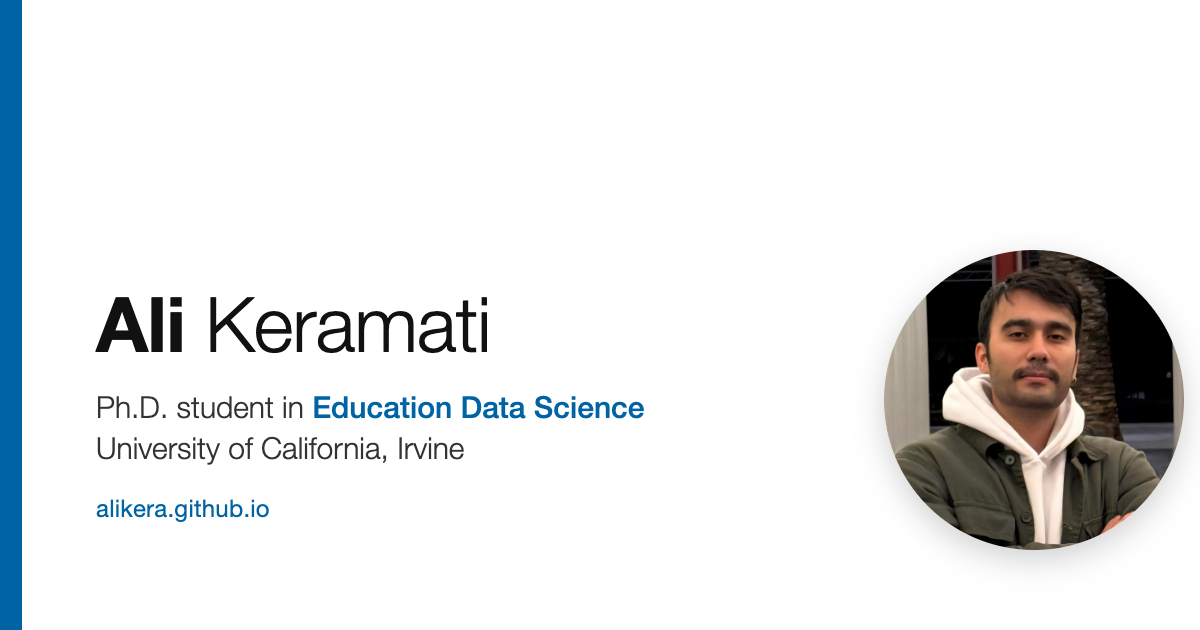
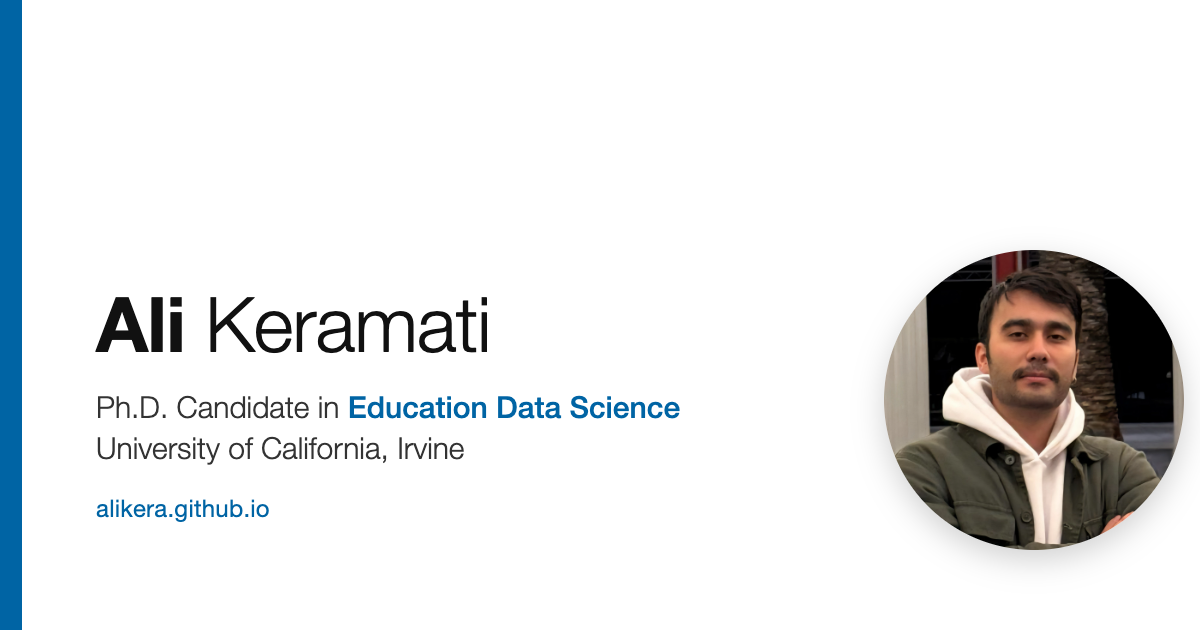
Use Ph.D. Candidate in Education Data Science; drop School of Education mentions

Changed region(s): [[0.1233, 0.6333, 0.5858, 0.6635]]

diff --git a/_pages/about.md b/_pages/about.md
@@ -2,14 +2,13 @@
 layout: about
 title: about
 permalink: /
-subtitle: Ph.D. Student in Education, <a href="https://education.uci.edu/">University of California, Irvine</a>
+subtitle: Ph.D. Candidate in Education Data Science, <a href="https://uci.edu/">University of California, Irvine</a>
 
 profile:
   align: right
   image: prof_pic.jpg
   image_circular: false # crops the image to make it circular
   more_info: >
-    <p>School of Education</p>
     <p>UC Irvine</p>
     <p>akerama1 [at] uci.edu</p>
 
@@ -27,10 +26,10 @@ latest_posts:
   limit: 3 # leave blank to include all the blog posts
 ---
 
-I am a Ph.D. student in Education at the University of California, Irvine, and a graduate student researcher in the [Digital Learning Lab](https://www.digitallearninglab.org/), directed by [Mark Warschauer](https://markwarschauer.com/). I hold an M.A. in Education from UC Irvine and a B.Sc. in Computer Engineering, with a minor in Educational Sciences, from the University of Tehran.
+I am a Ph.D. candidate in Education Data Science at the University of California, Irvine, and a graduate student researcher in the [Digital Learning Lab](https://www.digitallearninglab.org/), directed by [Mark Warschauer](https://markwarschauer.com/). I hold an M.A. in Education from UC Irvine and a B.Sc. in Computer Engineering, with a minor in Educational Sciences, from the University of Tehran.
 
 My research combines **natural language processing** and **multi-agent AI** with educational research to study how digital learning systems can support teaching and learning, focusing on **reliable assessment**, **learner simulation**, and the **evaluation of AI agents**. I designed [MADRAG](/publications/#keramati2026madrag), a training-free essay scorer in which Advocate and Skeptic agents debate an essay and a Judge agent calibrates its score against retrieved, rubric-aligned examples. I study whether token-level confidence reveals reasoning quality in multi-agent debate ([ACL 2026 SRW](/publications/#keramati2026confidentliar), [GEM 2026](/publications/#keramati2026earlytoken)) and how well large language models simulate students' programming errors ([EDM 2026](/publications/#keramati2026javaerrors)).
 
-In summer 2026 I was an applied scientist intern at **Microsoft** Copilot Studio, where I co-developed [ThinkingBox-Bench](/projects/thinkingbox/), a benchmark of 507 business workflows that tests whether tool-using agents succeed reliably across repeated attempts. At UC Irvine I work on [PapyrusAI](/projects/papyrusai/), the lab's AI writing coach, within the IES-funded [WRITE AI Center](https://writeai.center/), and I have served as a teaching and learning assistant in the School of Education.
+In summer 2026 I was an applied scientist intern at **Microsoft** Copilot Studio, where I co-developed [ThinkingBox-Bench](/projects/thinkingbox/), a benchmark of 507 business workflows that tests whether tool-using agents succeed reliably across repeated attempts. At UC Irvine I work on [PapyrusAI](/projects/papyrusai/), the lab's AI writing coach, within the IES-funded [WRITE AI Center](https://writeai.center/), and I have served as a teaching and learning assistant.
 
 Outside research, I love the arts: painting is my creative outlet, music keeps me focused, and I have explored acting and film direction with [Tazeh Theater](https://www.instagram.com/tazeh_theater/?hl=en). I also played soccer for [Esteghlal F.C. U17](https://www.transfermarkt.com/esteghlal-fc-u17/startseite/verein/88915) and still join friends on the field whenever I can.

diff --git a/_pages/education.md b/_pages/education.md
@@ -8,9 +8,8 @@ nav: false # reached through the "more" menu
 
 <div class="row mb-4">
   <div class="col-sm-8">
-    <h3 style="font-size:1.35rem; margin-bottom:.25rem">Ph.D. in Education</h3>
-    <div><a href="https://education.uci.edu/">School of Education</a>, University of California, Irvine · 2025 – present</div>
-    <div style="font-size:.9rem; color: var(--global-text-color-light)">Specialization: Teaching, Learning, and Educational Improvement · research focus: educational data science and AI in education</div>
+    <h3 style="font-size:1.35rem; margin-bottom:.25rem">Ph.D. in Education Data Science</h3>
+    <div>University of California, Irvine · 2025 – present</div>
   </div>
   <div class="col-sm-4">
     <a class="btn btn-sm btn-outline-primary z-depth-0" href="/files/PhD-Transcripts-Unofficial.pdf">Transcript (unofficial)</a>
@@ -20,7 +19,7 @@ nav: false # reached through the "more" menu
 <div class="row mb-4">
   <div class="col-sm-8">
     <h3 style="font-size:1.35rem; margin-bottom:.25rem">M.A. in Education</h3>
-    <div>School of Education, University of California, Irvine · 2026</div>
+    <div>University of California, Irvine · 2026</div>
   </div>
 </div>
 

diff --git a/_news/2025-01-06-phd.md b/_news/2025-01-06-phd.md
@@ -5,4 +5,4 @@ inline: true
 related_posts: false
 ---
 
-Started my Ph.D. in Education at UC Irvine and joined the Digital Learning Lab as a graduate student researcher.
+Started my Ph.D. in Education Data Science at UC Irvine and joined the Digital Learning Lab as a graduate student researcher.
